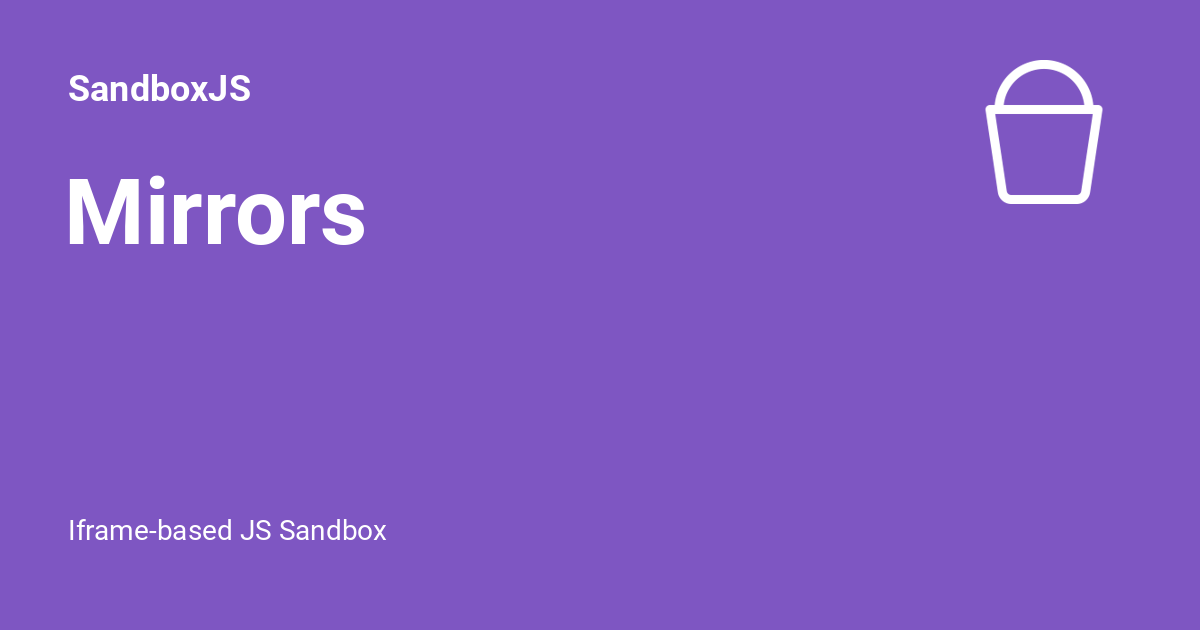
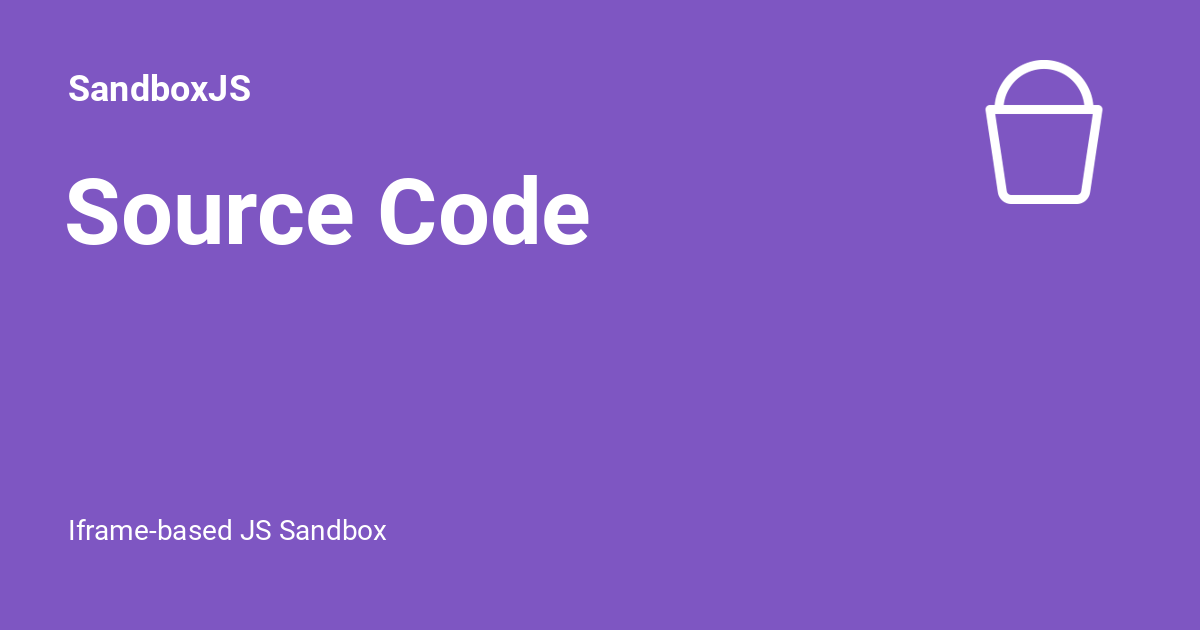
deploy: 86c8be1453db7087b805daab98f745d91de24d96 Commit fix: rename section

Changed region(s): [[0.0308, 0.2714, 0.4933, 0.3921]]

diff --git a/docs/mirrors/index.html b/docs/mirrors/index.html
@@ -25,7 +25,7 @@
     
     
       
-        <title>Mirrors - SandboxJS</title>
+        <title>Source Code - SandboxJS</title>
       
     
     
@@ -59,7 +59,7 @@
       
         <meta  property="og:type"  content="website" >
       
-        <meta  property="og:title"  content="Mirrors - SandboxJS" >
+        <meta  property="og:title"  content="Source Code - SandboxJS" >
       
         <meta  property="og:description"  content="Iframe-based JS Sandbox" >
       
@@ -75,7 +75,7 @@
       
         <meta  name="twitter:card"  content="summary_large_image" >
       
-        <meta  name="twitter:title"  content="Mirrors - SandboxJS" >
+        <meta  name="twitter:title"  content="Source Code - SandboxJS" >
       
         <meta  name="twitter:description"  content="Iframe-based JS Sandbox" >
       
@@ -134,7 +134,7 @@
         <div class="md-header__topic" data-md-component="header-topic">
           <span class="md-ellipsis">
             
-              Mirrors
+              Source Code
             
           </span>
         </div>
@@ -311,7 +311,7 @@
   <span class="md-ellipsis">
     
   
-    Mirrors
+    Source Code
   
 
     
@@ -328,7 +328,7 @@
   <span class="md-ellipsis">
     
   
-    Mirrors
+    Source Code
   
 
     

diff --git a/docs/usage/index.html b/docs/usage/index.html
@@ -383,7 +383,7 @@
   <span class="md-ellipsis">
     
   
-    Mirrors
+    Source Code
   
 
     
@@ -534,13 +534,13 @@ In scenarios like these, you need to reset the sandbox.</p>
         
         
           
-          <a href="../mirrors/" class="md-footer__link md-footer__link--next" aria-label="Next: Mirrors" rel="next">
+          <a href="../mirrors/" class="md-footer__link md-footer__link--next" aria-label="Next: Source Code" rel="next">
             <div class="md-footer__title">
               <div class="md-ellipsis">
                 <span class="md-footer__direction">
                   Next
                 </span>
-                Mirrors
+                Source Code
               </div>
             </div>
             <div class="md-footer__button md-icon">

diff --git a/docs/404.html b/docs/404.html
@@ -267,7 +267,7 @@
   <span class="md-ellipsis">
     
   
-    Mirrors
+    Source Code
   
 
     

diff --git a/docs/index.html b/docs/index.html
@@ -359,7 +359,7 @@
   <span class="md-ellipsis">
     
   
-    Mirrors
+    Source Code
   
 
     

diff --git a/docs/installation/index.html b/docs/installation/index.html
@@ -372,7 +372,7 @@
   <span class="md-ellipsis">
     
   
-    Mirrors
+    Source Code
   
 
     
